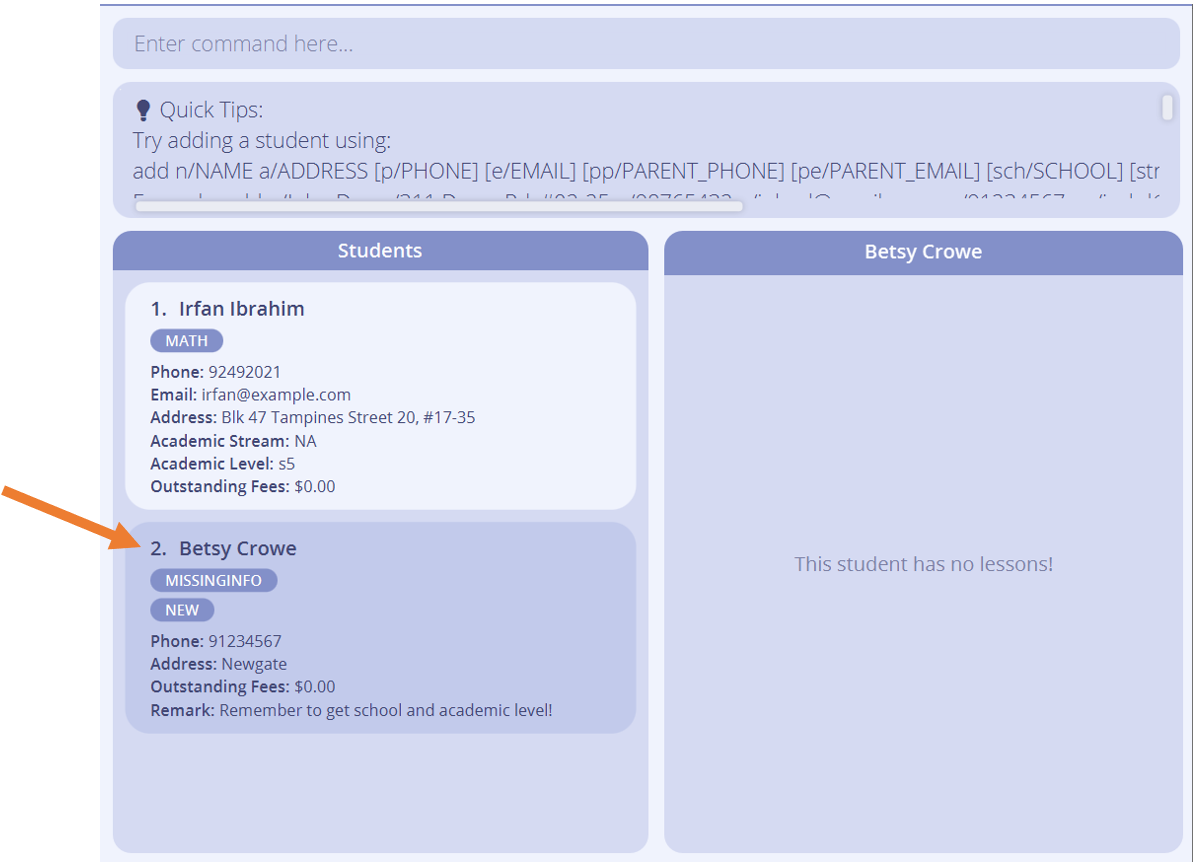
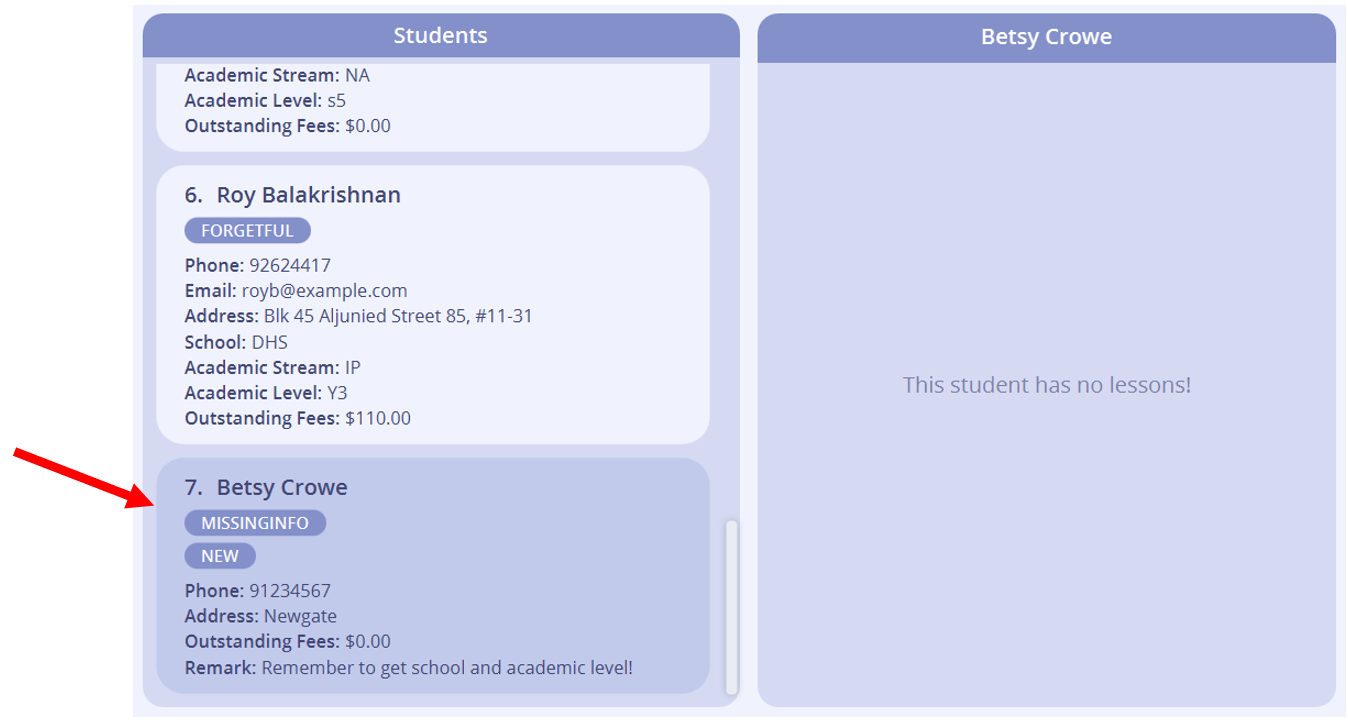
update edit pics

diff --git a/docs/UserGuide.md b/docs/UserGuide.md
@@ -451,17 +451,12 @@ Example:
 Suppose we want to update Betsy Crowe with her school and academic level, and remove her remarks and tags.
 Here's how to do it:
 
-1. Look for Betsy Crowe in your list of students. In this example, she's the second student in our list.
-
-<div align="center">
-  <img src="images/EditCommandEditBetsyInitial.png" width="600" />
-</div>
-
-2. Type `edit 2 sch/BC Example School lvl/Secondary 3 r/ t/` to set her school and academic level to `BC Example School` and `Secondary 3` respectively, and remove any remarks and tags.
+1. Look for Betsy Crowe in the list of students. In this example, she's the seventh student in the list.
+   ![Updated Betsy Crowe](images/EditCommandEditBetsyInitial.png)
+2. Type `edit 7 sch/BC Example School lvl/Secondary 3 r/ t/` to set her school and academic level to `BC Example School` and `Secondary 3` respectively and remove any remarks and tags.
    Now, Betsy Crowe's data in TAB should look like this:
 
 ![Updated Betsy Crowe](images/EditCommandEditBetsyResult.png)
-
 
 #### Deleting a student: `delete`
 
